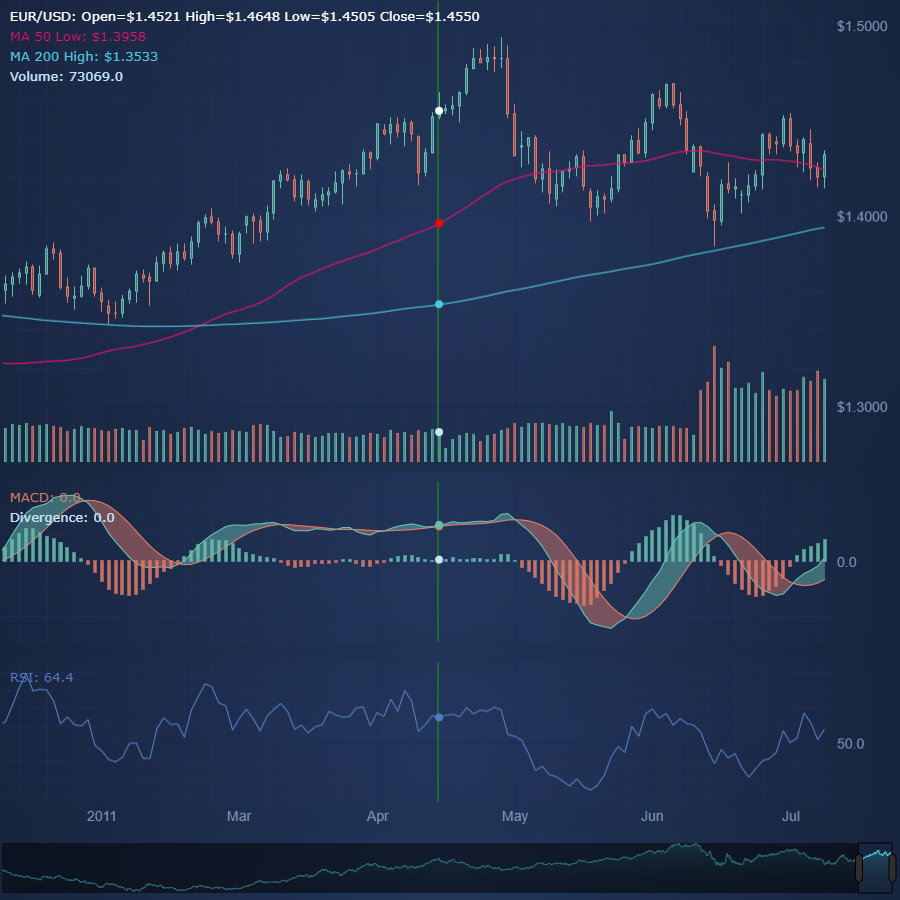
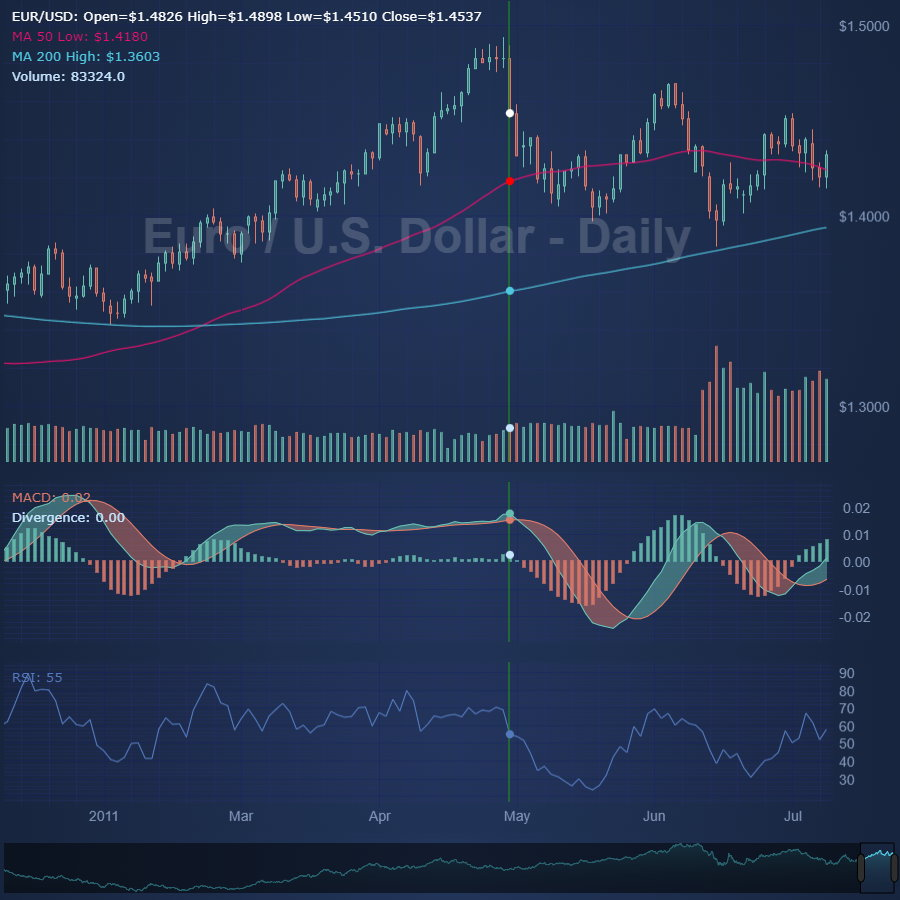
chore(examples): added watermark to multi pane stock chart

diff --git a/Examples/src/components/Examples/Charts2D/CreateStockCharts/MultiPaneStockCharts/index.tsx b/Examples/src/components/Examples/Charts2D/CreateStockCharts/MultiPaneStockCharts/index.tsx
@@ -43,12 +43,14 @@ import {EDataSeriesType} from "scichart/Charting/Model/IDataSeries";
 import {OhlcSeriesInfo} from "scichart/Charting/Model/ChartData/OhlcSeriesInfo";
[1 lines of base64/hex data omitted]
 import {SciChartOverview} from "scichart/Charting/Visuals/SciChartOverview";
-import {ESeriesType} from "../../../../../../../../scichart.dev/Web/src/SciChart/lib/types/SeriesType";
-import {
-    FastMountainRenderableSeries
-} from "../../../../../../../../scichart.dev/Web/src/SciChart/lib/Charting/Visuals/RenderableSeries/FastMountainRenderableSeries";
-import {GradientParams} from "../../../../../../../../scichart.dev/Web/src/SciChart/lib/Core/GradientParams";
-import {Point} from "../../../../../../../../scichart.dev/Web/src/SciChart/lib/Core/Point";
+import {ESeriesType} from "scichart/types/SeriesType";
[1 lines of base64/hex data omitted]
+import {GradientParams} from "scichart/Core/GradientParams";
+import {Point} from "scichart/Core/Point";
+import {TextAnnotation} from "scichart/Charting/Visuals/Annotations/TextAnnotation";
+import {ECoordinateMode} from "scichart/Charting/Visuals/Annotations/AnnotationBase";
+import {EHorizontalAnchorPoint, EVerticalAnchorPoint} from "scichart/types/AnchorPoint";
+import {EAnnotationLayer} from "scichart/Charting/Visuals/Annotations/IAnnotation";
 
 const divElementId1 = "cc_chart_3_1";
 const divElementId2 = "cc_chart_3_2";
@@ -215,6 +217,23 @@ const drawExample = async () => {
         });
         sciChartSurface.renderableSeries.add(volumeRenderableSeries);
 
+        // Add a watermark annotation
+        const watermarkAnnotation = new TextAnnotation({
+            x1: 0.5,
+            y1: 0.5,
+            xCoordinateMode: ECoordinateMode.Relative,
+            yCoordinateMode: ECoordinateMode.Relative,
+            horizontalAnchorPoint: EHorizontalAnchorPoint.Center,
+            verticalAnchorPoint: EVerticalAnchorPoint.Center,
+            opacity: 0.17,
+            textColor: appTheme.ForegroundColor,
+            fontSize: 48,
+            fontWeight: "Bold",
+            text: "Euro / U.S. Dollar - Daily",
+            annotationLayer: EAnnotationLayer.BelowChart
+        });
+        sciChartSurface.annotations.add(watermarkAnnotation);
+
         // MODIFIERS
         sciChartSurface.chartModifiers.add(new ZoomPanModifier());
         sciChartSurface.chartModifiers.add(new ZoomExtentsModifier());
@@ -241,10 +260,11 @@ const drawExample = async () => {
         sciChartSurface.xAxes.add(chart2XAxis);
 
         const yAxis = new NumericAxis(wasmContext, {
-            maxAutoTicks: 4,
             autoRange: EAutoRange.Always,
             growBy: new NumberRange(0.1, 0.1),
             axisAlignment,
+            labelPrecision: 2,
+            cursorLabelPrecision: 2,
             labelStyle: { alignment: ELabelAlignment.Right }
         });
         yAxis.labelProvider.numericFormat = ENumericFormat.Decimal;
@@ -311,9 +331,10 @@ const drawExample = async () => {
         sciChartSurface.xAxes.add(chart3XAxis);
 
         const yAxis = new NumericAxis(wasmContext, {
-            maxAutoTicks: 4,
             autoRange: EAutoRange.Always,
             growBy: new NumberRange(0.1, 0.1),
+            labelPrecision: 0,
+            cursorLabelPrecision: 0,
             axisAlignment,
             labelStyle: { alignment: ELabelAlignment.Right }
         });
